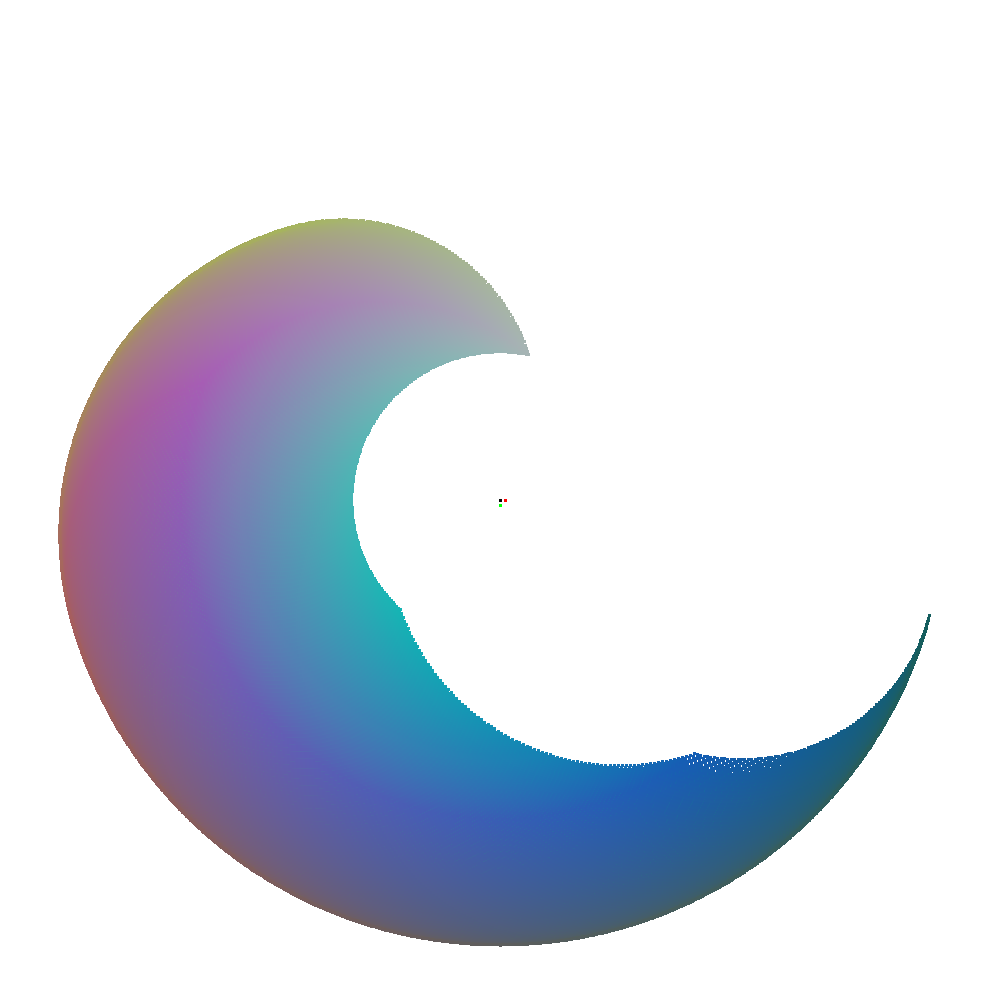
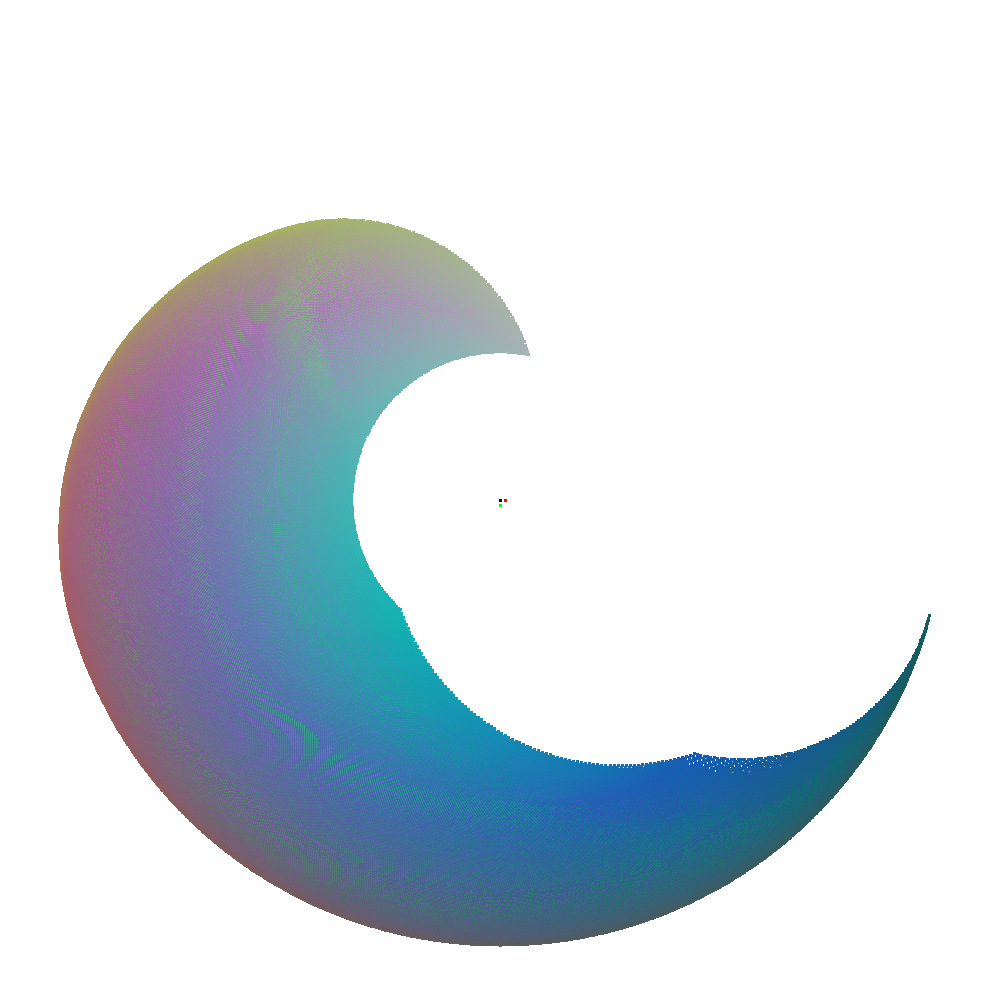
讓輸出盡量垂直

diff --git a/ESgomoku/Braccio/solver.py b/ESgomoku/Braccio/solver.py
@@ -38,15 +38,17 @@ class solver():
         def DrawColor(x, y, R, G, B):
             x, y, R, G, B = int(x), int(y), int(R), int(G), int(B)
             
+            def vert_loss(theta, omega, phi):
+                return abs(theta + omega + phi - 450)
+            
             def desicion(axis = list, angle = list, cover = False):
                 a,b,c,_ = im.getpixel((axis[0],axis[1]))
-                if cover and angle[0] < a :
-                    draw.point([axis[0],axis[1]],fill=(angle[0], angle[1], angle[2], 255))
-                elif _ == 0 or ( _==250 ):
-                    draw.point([axis[0],axis[1]],fill=(angle[0], angle[1], angle[2], 250))
-                    
-                    
-                    
+                if vert_loss(angle[0], angle[1], angle[2]) < 10:
+                    if cover and vert_loss(angle[0], angle[1], angle[2]) < vert_loss(a,b,c):
+                        draw.point([axis[0],axis[1]],fill=(angle[0], angle[1], angle[2], 255))
+                    elif _ == 0 or ( _ ==250 ):
+                        draw.point([axis[0],axis[1]],fill=(angle[0], angle[1], angle[2], 250))
+                        
             desicion([x,y],angle=([R,G,B]), cover = True)
             desicion([x+1,y],angle=([R,G,B]))
             desicion([x-1,y],angle=([R,G,B]))
